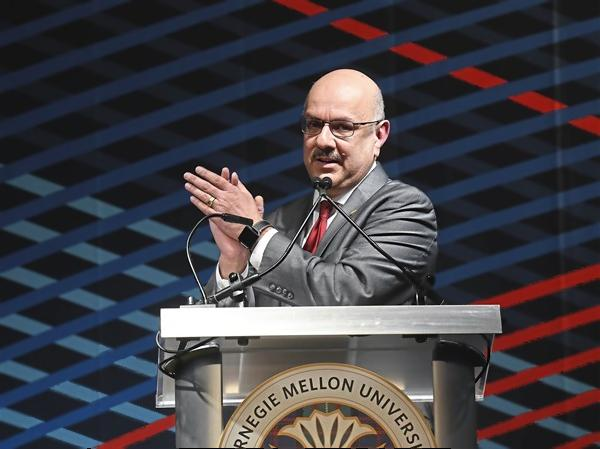
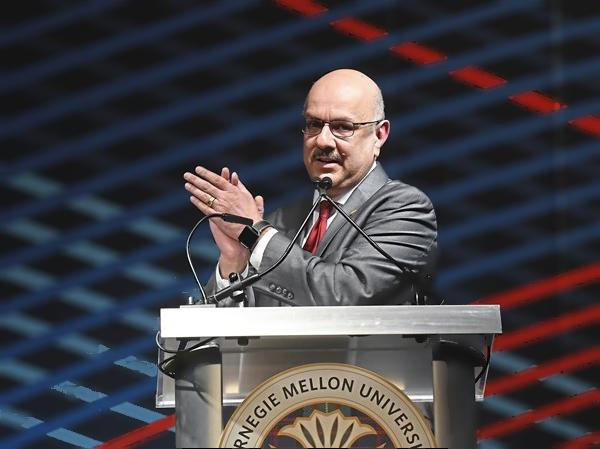
Add large blur

diff --git a/code/sequential/main.py b/code/sequential/main.py
@@ -2,7 +2,7 @@ from scipy.misc import imsave
 from scipy.ndimage import imread
 import numpy as np
 
-guy = "elephant"
+guy = "large_elephant"
 guy = "img/" + guy
 
 print("prelims")
@@ -105,6 +105,7 @@ mask = newMask
 
 imsave(guy + "_dude.jpg", dude)
 # Blur
+print "blur image"
 blurred = np.zeros((height, width, 3))
 blurKernel = [
                    [1, 4, 7, 4, 1],
@@ -113,6 +114,7 @@ blurKernel = [
                    [4, 16, 26, 16, 4],
                    [1, 4, 7, 4, 1]
                   ]
+blurKernel = [[1] * 11] * 11
 box_size = len(blurKernel)
 for row in range(height):
     for col in range(width):
